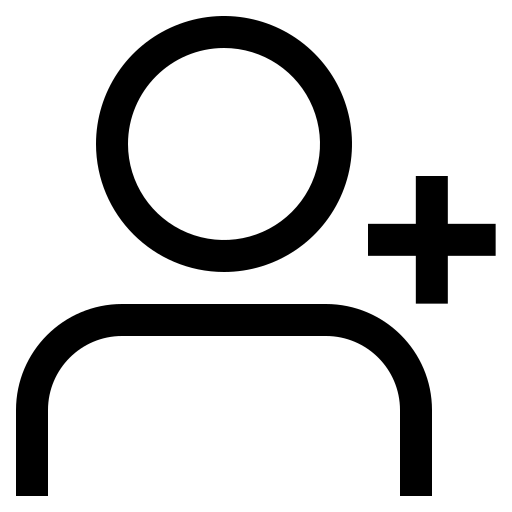
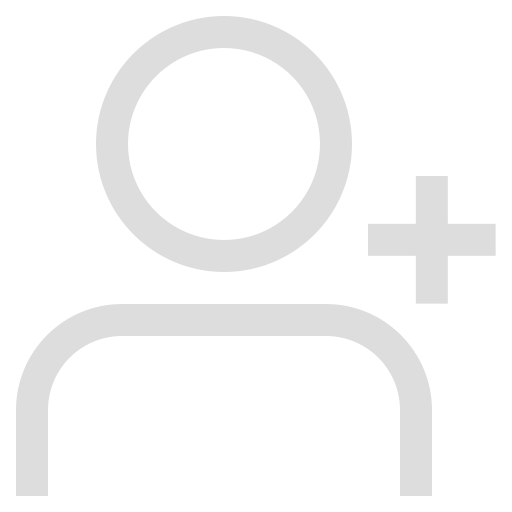
[arin] 화상회의 채팅 UI 수정

Changed region(s): [[0.1875, 0.0312, 0.6875, 0.5312], [0.0312, 0.5938, 0.8438, 0.9688], [0.7188, 0.3438, 0.9688, 0.5938]]

diff --git a/server/public/style.css b/server/public/style.css
@@ -50,6 +50,13 @@ video {
 #invite-button img {
     width: 100%;
     height: 100%;
+    transition: all 0.3s ease;
+    /* 부드러운 전환 효과 */
+}
+
+#invite-button:hover img {
+    content: url('./images/add-friend-hover.png');
+    /* hover 상태에서 이미지 변경 */
 }
 
 #chat-button {
@@ -66,6 +73,12 @@ video {
 #chat-button img {
     width: 100%;
     height: 100%;
+    transition: all 0.3s ease;
+    /* 부드러운 전환 효과 */
+}
+
+#chat-button:hover img {
+    content: url('./images/chat-hover.png');
 }
 
 #chat-container {
@@ -74,7 +87,7 @@ video {
     top: 0;
     width: 300px;
     height: 100%;
-    background-color: white;
+    background-color: #FAFAFA;
     box-shadow: -2px 0 5px rgba(0, 0, 0, 0.5);
     display: flex;
     flex-direction: column;
@@ -99,7 +112,7 @@ video {
     padding: 10px 0;
     border: none;
     font-size: 20px;
-    background: white;
+    background-color: #FAFAFA;
     cursor: pointer;
     text-align: center;
 }
@@ -121,7 +134,7 @@ video {
     position: absolute;
     bottom: 0;
     width: 100%;
-    background-color: white;
+    background-color: #FAFAFA;
     padding: 10px;
     box-sizing: border-box;
     display: flex;
@@ -132,12 +145,17 @@ video {
     padding: 10px;
     border: 1px solid #ddd;
     box-sizing: border-box;
+    font-family: 'MyCustomFont', sans-serif;
+}
+
+#chat-input:focus {
+    outline-color: #E48758;
 }
 
 #send-chat-button {
     padding: 10px;
     border: none;
-    background-color: #007bff;
+    background-color: #E48758;
     color: white;
     cursor: pointer;
     margin-left: 10px;
@@ -162,6 +180,8 @@ video {
     width: 290px;
     height: 500px;
     overflow-y: auto;
+    background-color: #FAFAFA;
+    font-family: 'MyCustomFont', sans-serif;
 }
 
 #microphone-toggle-button {

diff --git a/server/public/index.html b/server/public/index.html
@@ -42,10 +42,18 @@
         <div class="remoteVideo" id="remote-video"></div>
     </div>
 
+    <!-- 커밋 전에 주석 풀기
     <button id="invite-button" style="display:none;">
         <img src="./images/add-friend.png" alt="">
     </button>
     <button id="chat-button" style="display:none;">
+        <img src="./images/chat.png" alt="">
+    </button> -->
+
+    <button id="invite-button">
+        <img src="./images/add-friend.png" alt="">
+    </button>
+    <button id="chat-button">
         <img src="./images/chat.png" alt="">
     </button>
 
